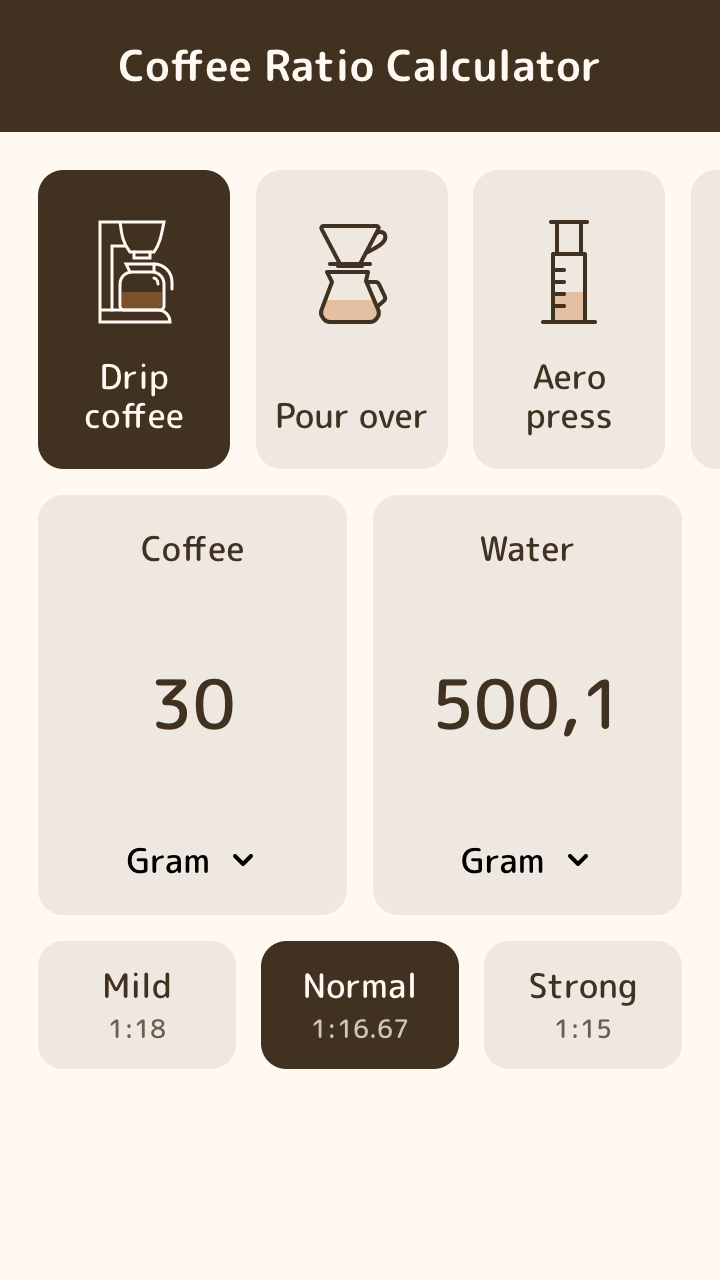
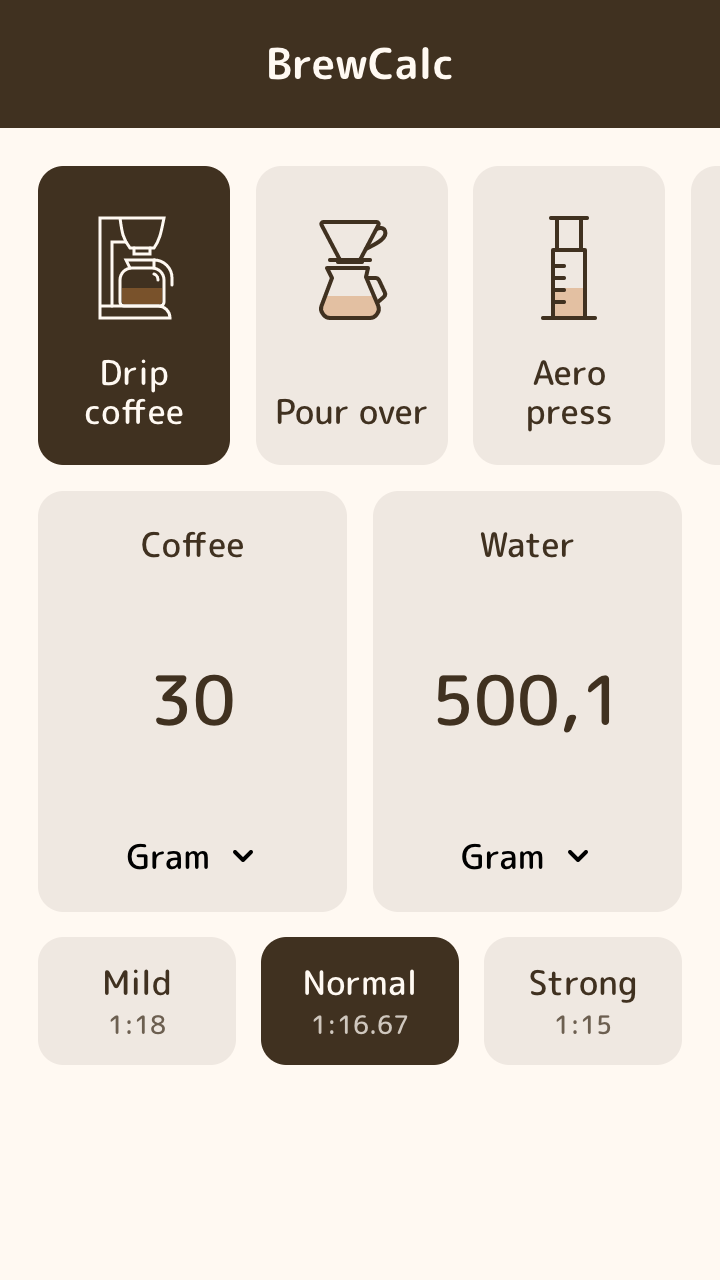
Rename app to "BrewCalc"

diff --git a/public/index.html b/public/index.html
@@ -6,14 +6,14 @@
     <meta name="viewport" content="width=device-width, initial-scale=1" />
     <meta name="theme-color" content="#403020" />
     <link rel="apple-touch-icon" href="%PUBLIC_URL%/logo192.png" />
-    <meta name="apple-mobile-web-app-title" content="Brew">
+    <meta name="apple-mobile-web-app-title" content="BrewCalc">
     <meta name="apple-mobile-web-app-capable" content="yes">
     <meta name="apple-mobile-web-app-status-bar-style" content="black">
     <link rel="manifest" href="%PUBLIC_URL%/manifest.json" />
-    <title>Brew: Simple Coffee Ratio Calculator</title>
+    <title>BrewCalc: A Simple Coffee Ratio Calculator</title>
     <meta
       property="og:title"
-      content="Brew: Simple Coffee Ratio Calculator"
+      content="BrewCalc: A Simple Coffee Ratio Calculator"
     />
     <meta
       property="og:description"
